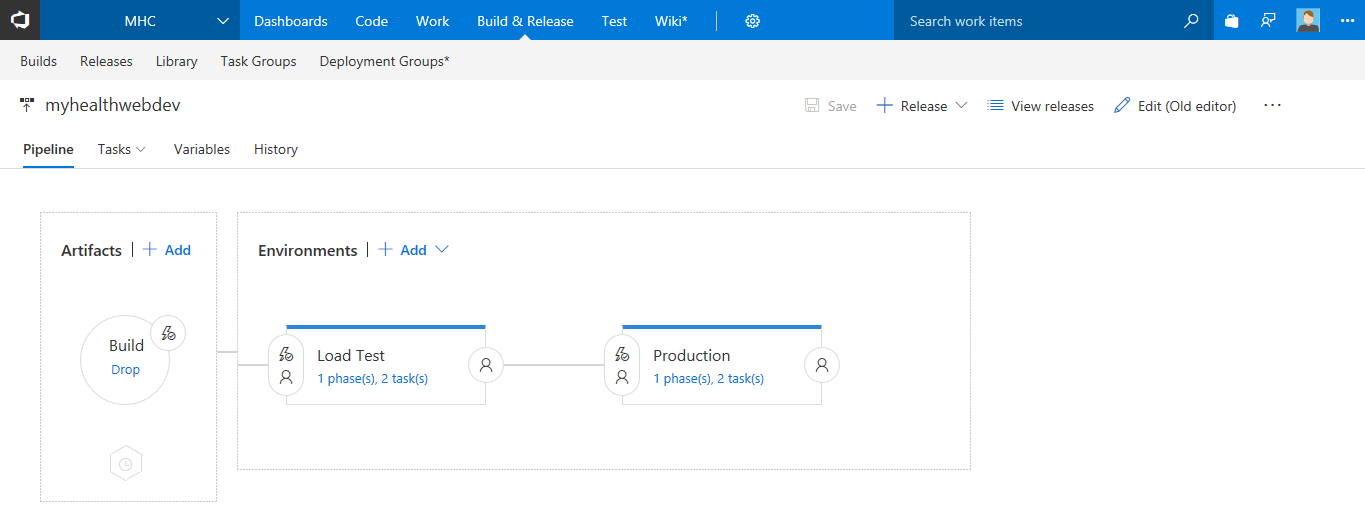
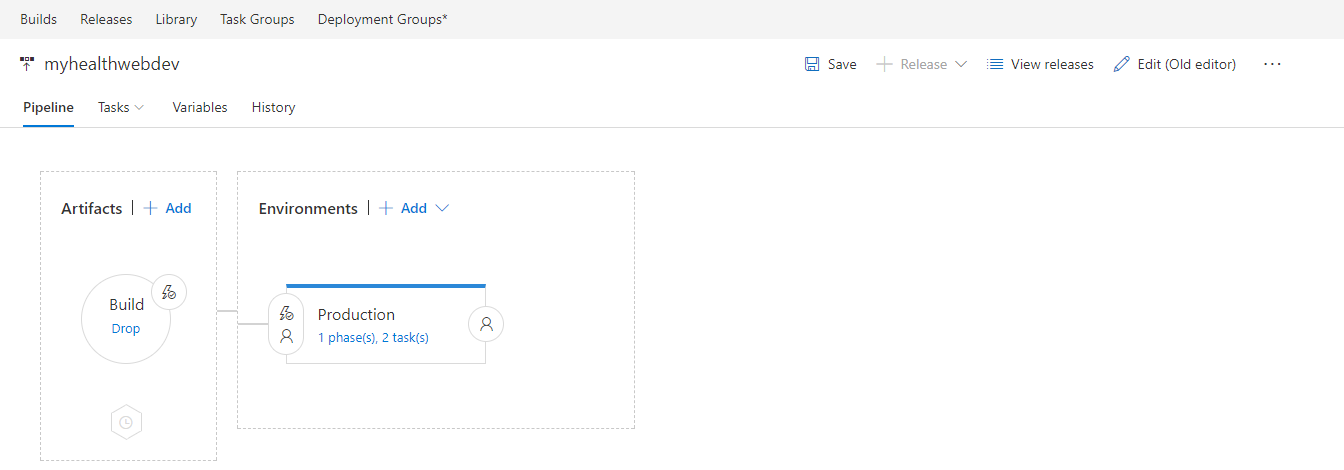
updated content

diff --git a/labs/vsts/azurecd/readme.md b/labs/vsts/azurecd/readme.md
@@ -1,26 +1,14 @@
 # Generate CI/CD pipeline automatically from Azure Portal
 
-Continuous Delivery is a great option for projects that require multiple and frequent contributions to be integrated.
+Continuous Delivery is a great option for projects that require multiple and frequent contributions to be integrated. Continuous Delivery in Team Services simplifies setting up a robust deployment pipeline for your app to publish the most recent updates to Azure App Service. The pipeline can be configured to build, runs tests, and deploy to a staging slot and then to production.
 
-Continuous Delivery in Team Services simplifies setting up a robust deployment pipeline for your app to publish the most recent updates to Azure App Service. The pipeline can be configured to build, runs tests, and deploy to a staging slot and then to production.
+>The email ID should both in VSTS and Azure should be same
 
-You must store your app's source code in a Team Services Git, GitHub, or any other Git repository to use Azure Continuous Delivery. Team Foundation Version Control (TFVC) repositories are not supported at present.
+## Configuring the CD pipeline
 
-## Pre requisites
+1. Open your browser and sign in to <a href="https://portal.azure.com">Azure Portal</a>
 
-1. Azure Subscription
-
-2. Visual Studio Team Services account. If you don’t have one, you can create from <a href="https://www.visualstudio.com/">here</a>
-
-3. You can use the <a href="https://vstsdemogenerator.azurewebsites.net/">VSTS Demo Data generator</a> to provison a project with pre-defined data on to your Visual Studio Team Services account. Please use the **My Health Clinic** template to follow the hands-on-labs
-
-**Note:** Currently supported/recommended to use the same account for VSTS and Azure to setup the CD pipeline. Else you would end up with exceptions and won't be able to setup. 
-
-## Configure
-
-1. Go to Azure Portal from <a href="https://portal.azure.com">here</a>
-
-2. Select your web app, If you haven't created a web app, do this now by choosing the "+" icon, selecting **Web App** from the **Web + Mobile** category, and providing a name and a resource group.
+2. Create a web app by choosing the "+" icon, selecting **Web App** from the **Web + Mobile** category, and providing a unique name and a resource group.
 
    <img src="images/1.png">
 
@@ -28,7 +16,7 @@ You must store your app's source code in a Team Services Git, GitHub, or any oth
 
    <img src="images/2.png">
 
-4. Select **Choose repository** and select **Visual Studio Team Services** 
+4. Select **Choose repository** and select **Visual Studio Team Services**.
 
    <img src="images/3.png">
 
@@ -36,63 +24,57 @@ You must store your app's source code in a Team Services Git, GitHub, or any oth
 
    <img src="images/4.png">
 
-  > In addition to Visual Studio Team Services, you can also select other Git repositories such as GitHub or External Git (a Git  repository not hosted in Team Services or GitHub, For instance, BitBucket). You will have to provide the account, repository and branch details and if it is a private repository, you will need to provide the credentials
+   > In addition to Visual Studio Team Services, you can also select other Git repositories such as GitHub or External Git (a Git  repository not hosted in Team Services or GitHub, For instance, BitBucket). You will have to provide the account, repository and branch details and if it is a private repository, you will need to provide the credentials
 
 6. Select **Configure Continuous Delivery** and choose the web application framework you used to develop your app. Since we are targeting .NET Core, select **ASP.NET Core**.
 
    <img src="images/5.png">
 
-   This choice influences the way that Azure Continuous Delivery builds and packages the app for deployment. At present, ASP.NET, ASP.NET Core, PHP, Python, and Node.js are supported. When you're done, choose **OK**.
+   >This choice influences the way that Azure Continuous Delivery builds and packages the app for deployment. At present, ASP.NET, ASP.NET Core, PHP, Python, and Node.js are supported. When you're done, choose **OK**.
 
 7. You can load test your web application before the changes are deployed to production. You will need to select a web app within the same resource group. If you are specifying for the first time, you can select **Create New** and provide the information to create a new instance. For this exercise, we will skip load test and move to the next step.
 
-8. You can also select to deploy the changes to staging first (for testing purposes) and then promote the changes to production. Select **Configure deployment** and choose **YES**. Select **Create New** option for ***Deployment Slot***  and select **OK**.
+8. You can also select to deploy the changes to staging first (for testing purposes) and then promote the changes to production. Select **Configure deployment** and choose **YES**. Select **Create New** option for **Deployment Slot**  and select **OK**.
 
    <img src="images/7.png">
 
-1. Choose **OK** to create and execute the Continuous Delivery workflow.
+9. Choose **OK** to create and execute the Continuous Delivery workflow.
 
    <img src="images/8.png">
 
   >The workflow will create a build and a release definition in the Team Services account together with a service endpoint to connect to Azure. A new slot for staging is created for the web app. Once the setup has completed successfully, a build is triggered that builds and packages the application for deployment and when the build has completed successfully, a new release is created and the deployment triggered
   
-2. You can see the status of the steps from the the Activity Log.
+10. You can see the status of the steps from the the Activity Log.
 
    <img src="images/9.png">
 
-3. In the **Successfully set up Continuous Delivery...** item, choose the Build Definition link to open the project containing your app in Team Services, and see the summary for the build definition. 
+11. In the **Successfully set up Continuous Delivery** item, choose the Build Definition link to open the project containing your app in Team Services, and see the summary for the build definition. 
 
    <img src="images/12.png">
 
    <img src="images/11.png">
 
-4. Choose **Edit** to see the tasks that have been added and configured.
+12. Choose **Edit** to see the tasks that have been added and configured.
 
    <img src="images/13.png">
 
    Different tasks are added to the build definition depending on the app framework you selected. For example, .NET Core task is used for ASP.NET Core apps.
 
-5. In the **Successfully set up Continuous Delivery...** item, choose the Release Definition link to open the project containing your app in Team Services, and see the list of releases for this definition. Choose **Edit** to see the tasks that have been added and configured.
+13. Select the release definition from **Successfully set up Continuous Delivery**, to open the project containing your app in Team Services, and see the list of releases for this definition. Select **Edit** to see the tasks that have been added and configured.
 
    <img src="images/14.png">
 
-6. The release definition that is created depends on whether you chose to include a load test and/or a staging deployment. If you chose either or both, your release definition will have two environments named **Test** and **Production**. As shown below, the **Test** environment has two tasks: **Azure App Service Deploy** deploys the app to the Azure App Service you selected for load testing, and **Cloud-based Web Performance** task execute the load test.
-
-   <img src="images/15.png">
-
-7. The **Production** environment, shown below, has an **Azure App Service Deploy** task. If you chose to use a staging deployment, the latest changes are deployed to the staging slot and then an **Azure App Service Manage** task performs a slot swap between staging and production slots.
+14. The **Production** environment, has an **Azure App Service Deploy** task. The latest changes are deployed to the staging slot and then an **Azure App Service Manage** task performs a slot swap between staging and production slots.
 
    <img src="images/16.png">
 
-   If you opted out of both load test and a staging deployment, your release definition will have a single environment with just one Azure App Service Deploy task to deploy the latest changes to your Azure App Service.
-
    There are also links in other items in the Activity Log that open commits, builds, build reports, releases, deployment slots, and the deployed app itself, in relevant windows or apps.
 
-8. Click on **Release summary** to ensure the deployment was successful. 
+15. Click on **Release summary** to view the successful deployment. 
 
    <img src="images/18.png">
 
-9. Browse to the web app post deployment. You will notice that the app is running, but is missing out all the stylings, images etc. You should see something like this as shown below.
+16. Browse to the web app post deployment. You will notice that the app is running, but is missing out all the stylings, images etc. You should see something like this as shown below.
 
    <img src="images/19.png">
 
